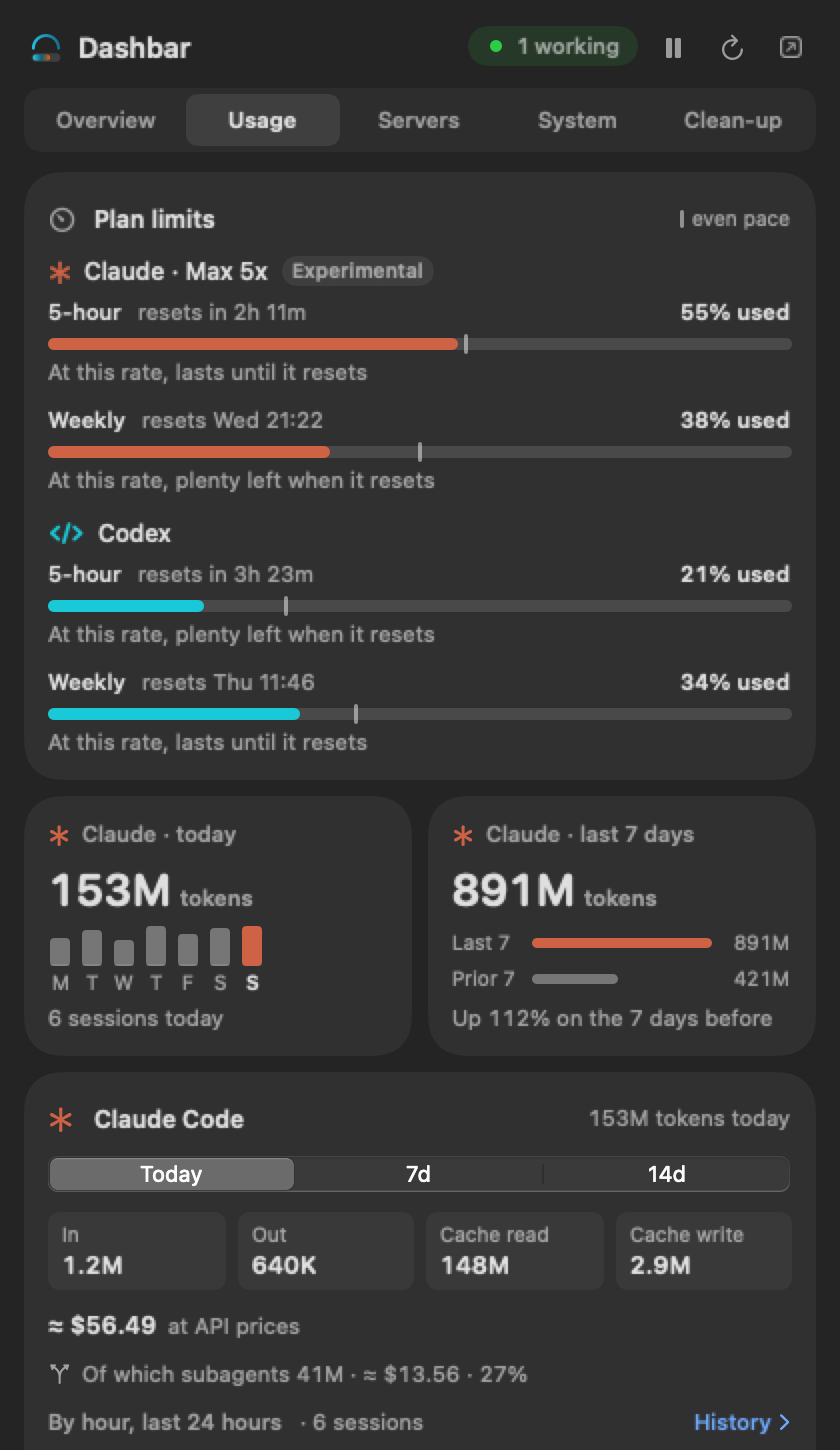
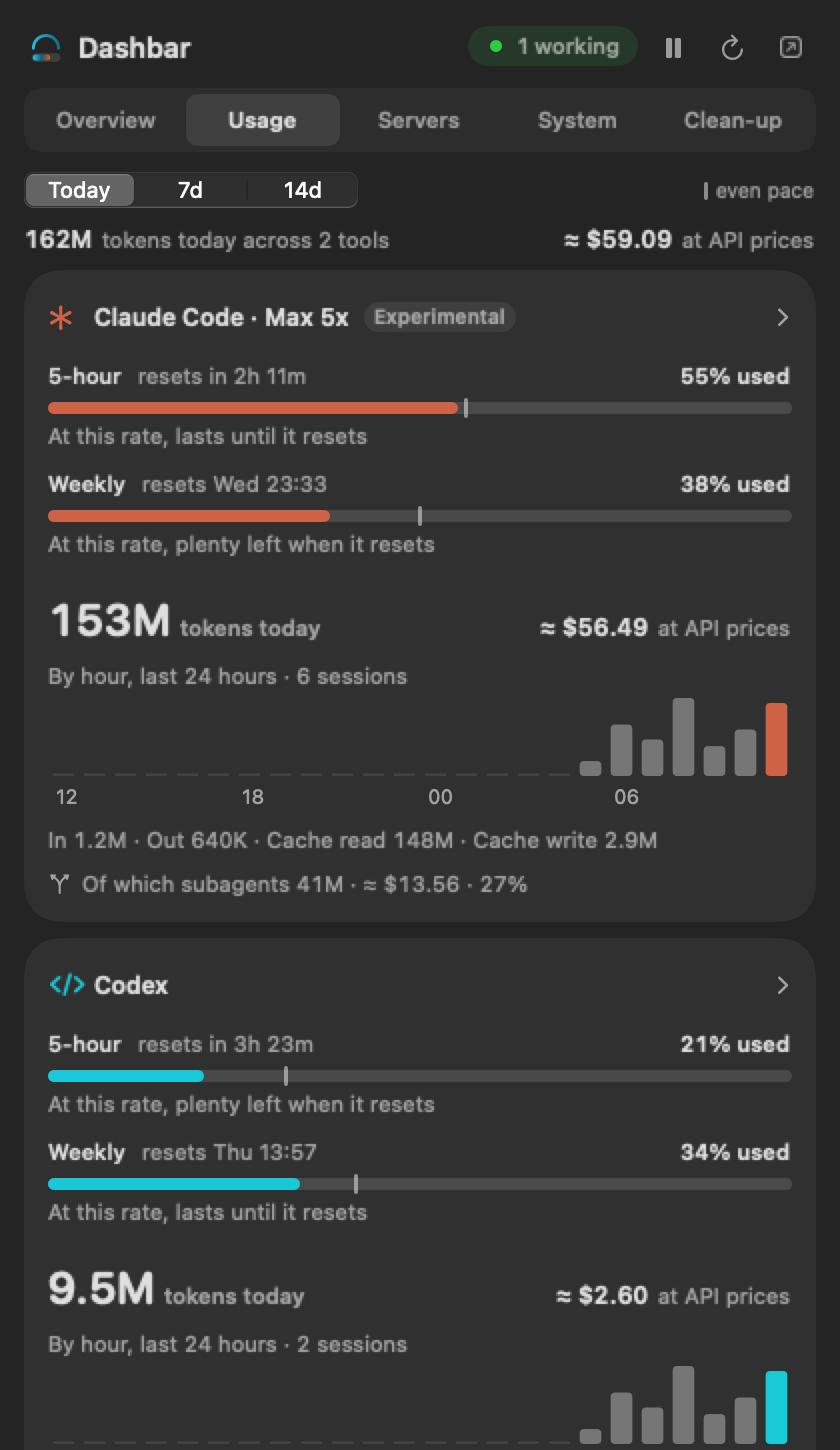
README and pictures: the Usage tab's one card per tool
Re-render agents-light.png and agents-dark.png (840 × 1450, hosted, cropped above the bottom bar) and describe the tab
as it is now: a card per tool, the one closest to running out first, one Today · 7d · 14d choice kept between launches,
and the line across tools.

diff --git a/README.md b/README.md
@@ -12,7 +12,7 @@ A free, open-source Mac menu bar app that shows which Claude Code and Codex agen
   &nbsp;
   <picture>
     <source media="(prefers-color-scheme: dark)" srcset="docs/images/agents-dark.png">
-    <img src="docs/images/agents-light.png" alt="Dashbar's Usage tab: plan limits with pace, today's and the last 7 days' tokens, and Claude Code's usage" width="360">
+    <img src="docs/images/agents-light.png" alt="Dashbar's Usage tab: one card per tool with its plan limits and pace, today's tokens and estimated cost, and an hourly chart" width="360">
   </picture>
 </p>
 
@@ -40,7 +40,7 @@ Dashbar checks for updates itself (Settings → About → Check for Updates…).
 
 - **Agents**: live Claude Code sessions (`~/.claude/sessions`), working/idle status, and "needs you" when Claude has stopped to ask for permission or an answer (it sorts first, in amber, with a count beside the menu bar icon), plus other agent apps and CLIs it spots running (T3 Code, Codex, Cursor, Aider, Ollama…). Click a session to go back to the app it runs in (its terminal, VS Code, T3 Code or the Desktop app); right-click it to open its folder in your editor or Finder.
 - **Subagents**: when a session hands work to subagents (the Agent tool, in the foreground or background), the panel says so under it ("3 subagents running", opening into a list with each one's task and how long it has run), and the Dashbar window lists them under their session with type, model, tokens and status. Finished ones drop off after a minute or so. Read from each live session's `subagents` folder beside its transcript; their tokens are counted once in the usage totals, in the project each worked in, and the usage card shows the share they used.
-- **Claude Code usage**: today's tokens (in / out / cache read / cache write), a 14-day chart, and top projects and models, read incrementally from `~/.claude/projects/**/*.jsonl`.
+- **Claude Code usage**: tokens for today, the last 7 days or the last 14 (in / out / cache read / cache write), an hourly or daily chart, and in the Dashbar window the top workspaces and models, read incrementally from `~/.claude/projects/**/*.jsonl`.
 - **Codex usage**: the same, plus 5h/weekly rate-limit gauges, from `~/.codex/sessions`. Shown once Codex has session logs.
 - **Gemini CLI and Antigravity** (shown only if you use them): Gemini CLI sessions as agents in their workspaces (a running
   `gemini` process, working while its session log is being written) and their tokens and estimated cost per model, read
@@ -54,7 +54,7 @@ Dashbar checks for updates itself (Settings → About → Check for Updates…).
   confirm a tool. Never your email or conversations. Remove puts your previous status line back exactly.
 - **More than one account**: if you run Claude Code with [`CLAUDE_CONFIG_DIR`](https://code.claude.com/docs/en/authentication#log-in-with-multiple-accounts) (say `~/.claude-work` beside `~/.claude`) or Codex with `CODEX_HOME`, add each folder in Settings → Accounts (Dashbar suggests `~/.claude-*` and `~/.codex-*` folders with logs, looking only at the top of your home folder). It reads every account's sessions and usage, names them by account (only once there's more than one), and shows each Claude account's plan limits from its own status line, saved to `~/Library/Caches/Dashbar/claude-statusline-<id>.json`.
 - **Estimated cost**: what the period's tokens would cost at public API list prices, per model and project, worked out on your Mac from the token counts (a guide for subscribers, not a bill; models without a known price are named, never counted as $0). Settings → General can hide it.
-- **History**: a page in the Dashbar window (or **History** in a usage card) with each 5-hour and weekly plan window's peak over the last 30 days (how often you hit the limit; with more than one account, one card per account), the current window against an even pace, and 30 days of tokens and estimated cost per day by agent, project and model. Plan readings are kept for 90 days in `~/Library/Application Support/Dashbar/plan-history.json` (usually tens of KB; each extra account beside it as `plan-history-<id>.json`); usage comes from the scan Dashbar already does.
+- **History**: a page in the Dashbar window (or click a card's header on the Usage tab) with each 5-hour and weekly plan window's peak over the last 30 days (how often you hit the limit; with more than one account, one card per account), the current window against an even pace, and 30 days of tokens and estimated cost per day by agent, project and model. Plan readings are kept for 90 days in `~/Library/Application Support/Dashbar/plan-history.json` (usually tens of KB; each extra account beside it as `plan-history-<id>.json`); usage comes from the scan Dashbar already does.
 - **Local servers**: listening TCP ports with their project name, command and uptime. Hover a row to open it in the browser or stop the process.
   Servers up over an hour that use almost no CPU are marked "barely used", and servers started from a Claude Code
   session say so (the session shows what it runs).
@@ -65,7 +65,7 @@ Dashbar checks for updates itself (Settings → About → Check for Updates…).
 - **Island** (Settings → Notifications; on for new installs): when an agent finishes or stops for you, a black banner grows out of the MacBook notch (or just below the middle of the menu bar on other screens) with the session's title and project, then folds back into the notch after a few seconds (hover holds it open). Click it to go back to the session; with answering permission prompts on, Allow once and Deny work right there. Between moments it draws nothing, so the notch and the menus around it are untouched. Optionally it keeps a small status beside the notch (amber "needs you", else green "working") that lists your sessions on hover; that can cover the last menus of a menu-heavy app. If another app already draws at the notch, it sits just below that app's (or choose left or right of the notch), and it can stand in for the matching notifications.
 - **First run**: a short welcome window says what Dashbar reads and lets you turn on notifications, open at login and Claude plan limits. macOS asks about notifications only when you turn one on. It's in the gear menu as Welcome… later.
 - **Notifications** (each can be turned off in Settings): when an agent finishes a stretch of work, when it needs you, and when a plan limit runs low: at 80%, when it's on course to run out before it resets, and when it's used up, once per window.
-- **Tabs**: Overview · Usage · Servers · System · Clean-up (⌘1–⌘5). Overview puts what needs you first: waiting permission prompts, then the workspace whose agent is waiting, working or went idle in the last 10 minutes, the other workspaces, servers outside them, a strip with each account's tightest plan limit (click it for Usage) and, from 1 GB, a line to Clean-up. Usage has the plan limits with their pace, today's and the last 7 days' tokens, and each tool's usage.
+- **Tabs**: Overview · Usage · Servers · System · Clean-up (⌘1–⌘5). Overview puts what needs you first: waiting permission prompts, then the workspace whose agent is waiting, working or went idle in the last 10 minutes, the other workspaces, servers outside them, a strip with each account's tightest plan limit (click it for Usage) and, from 1 GB, a line to Clean-up. Usage has one card per tool, the one closest to running out of plan first: its plan limits with their pace, the period's tokens with the estimated cost, a chart and the in / out / cache split. One Today · 7d · 14d choice at the top drives every card and is kept between launches; with two or more tools in use, a line above the cards adds them up. A tool with no usage in the period and no limits folds to one line.
 - **Menu bar stats** (optional, in Settings): CPU, memory, download speed and, with Claude plan limits on, what's left
   of your Claude 5-hour or weekly limit, beside the icon.
 - **Plan limits**: Codex's 5-hour and weekly limits from its own logs. Claude's come from Claude Code's
